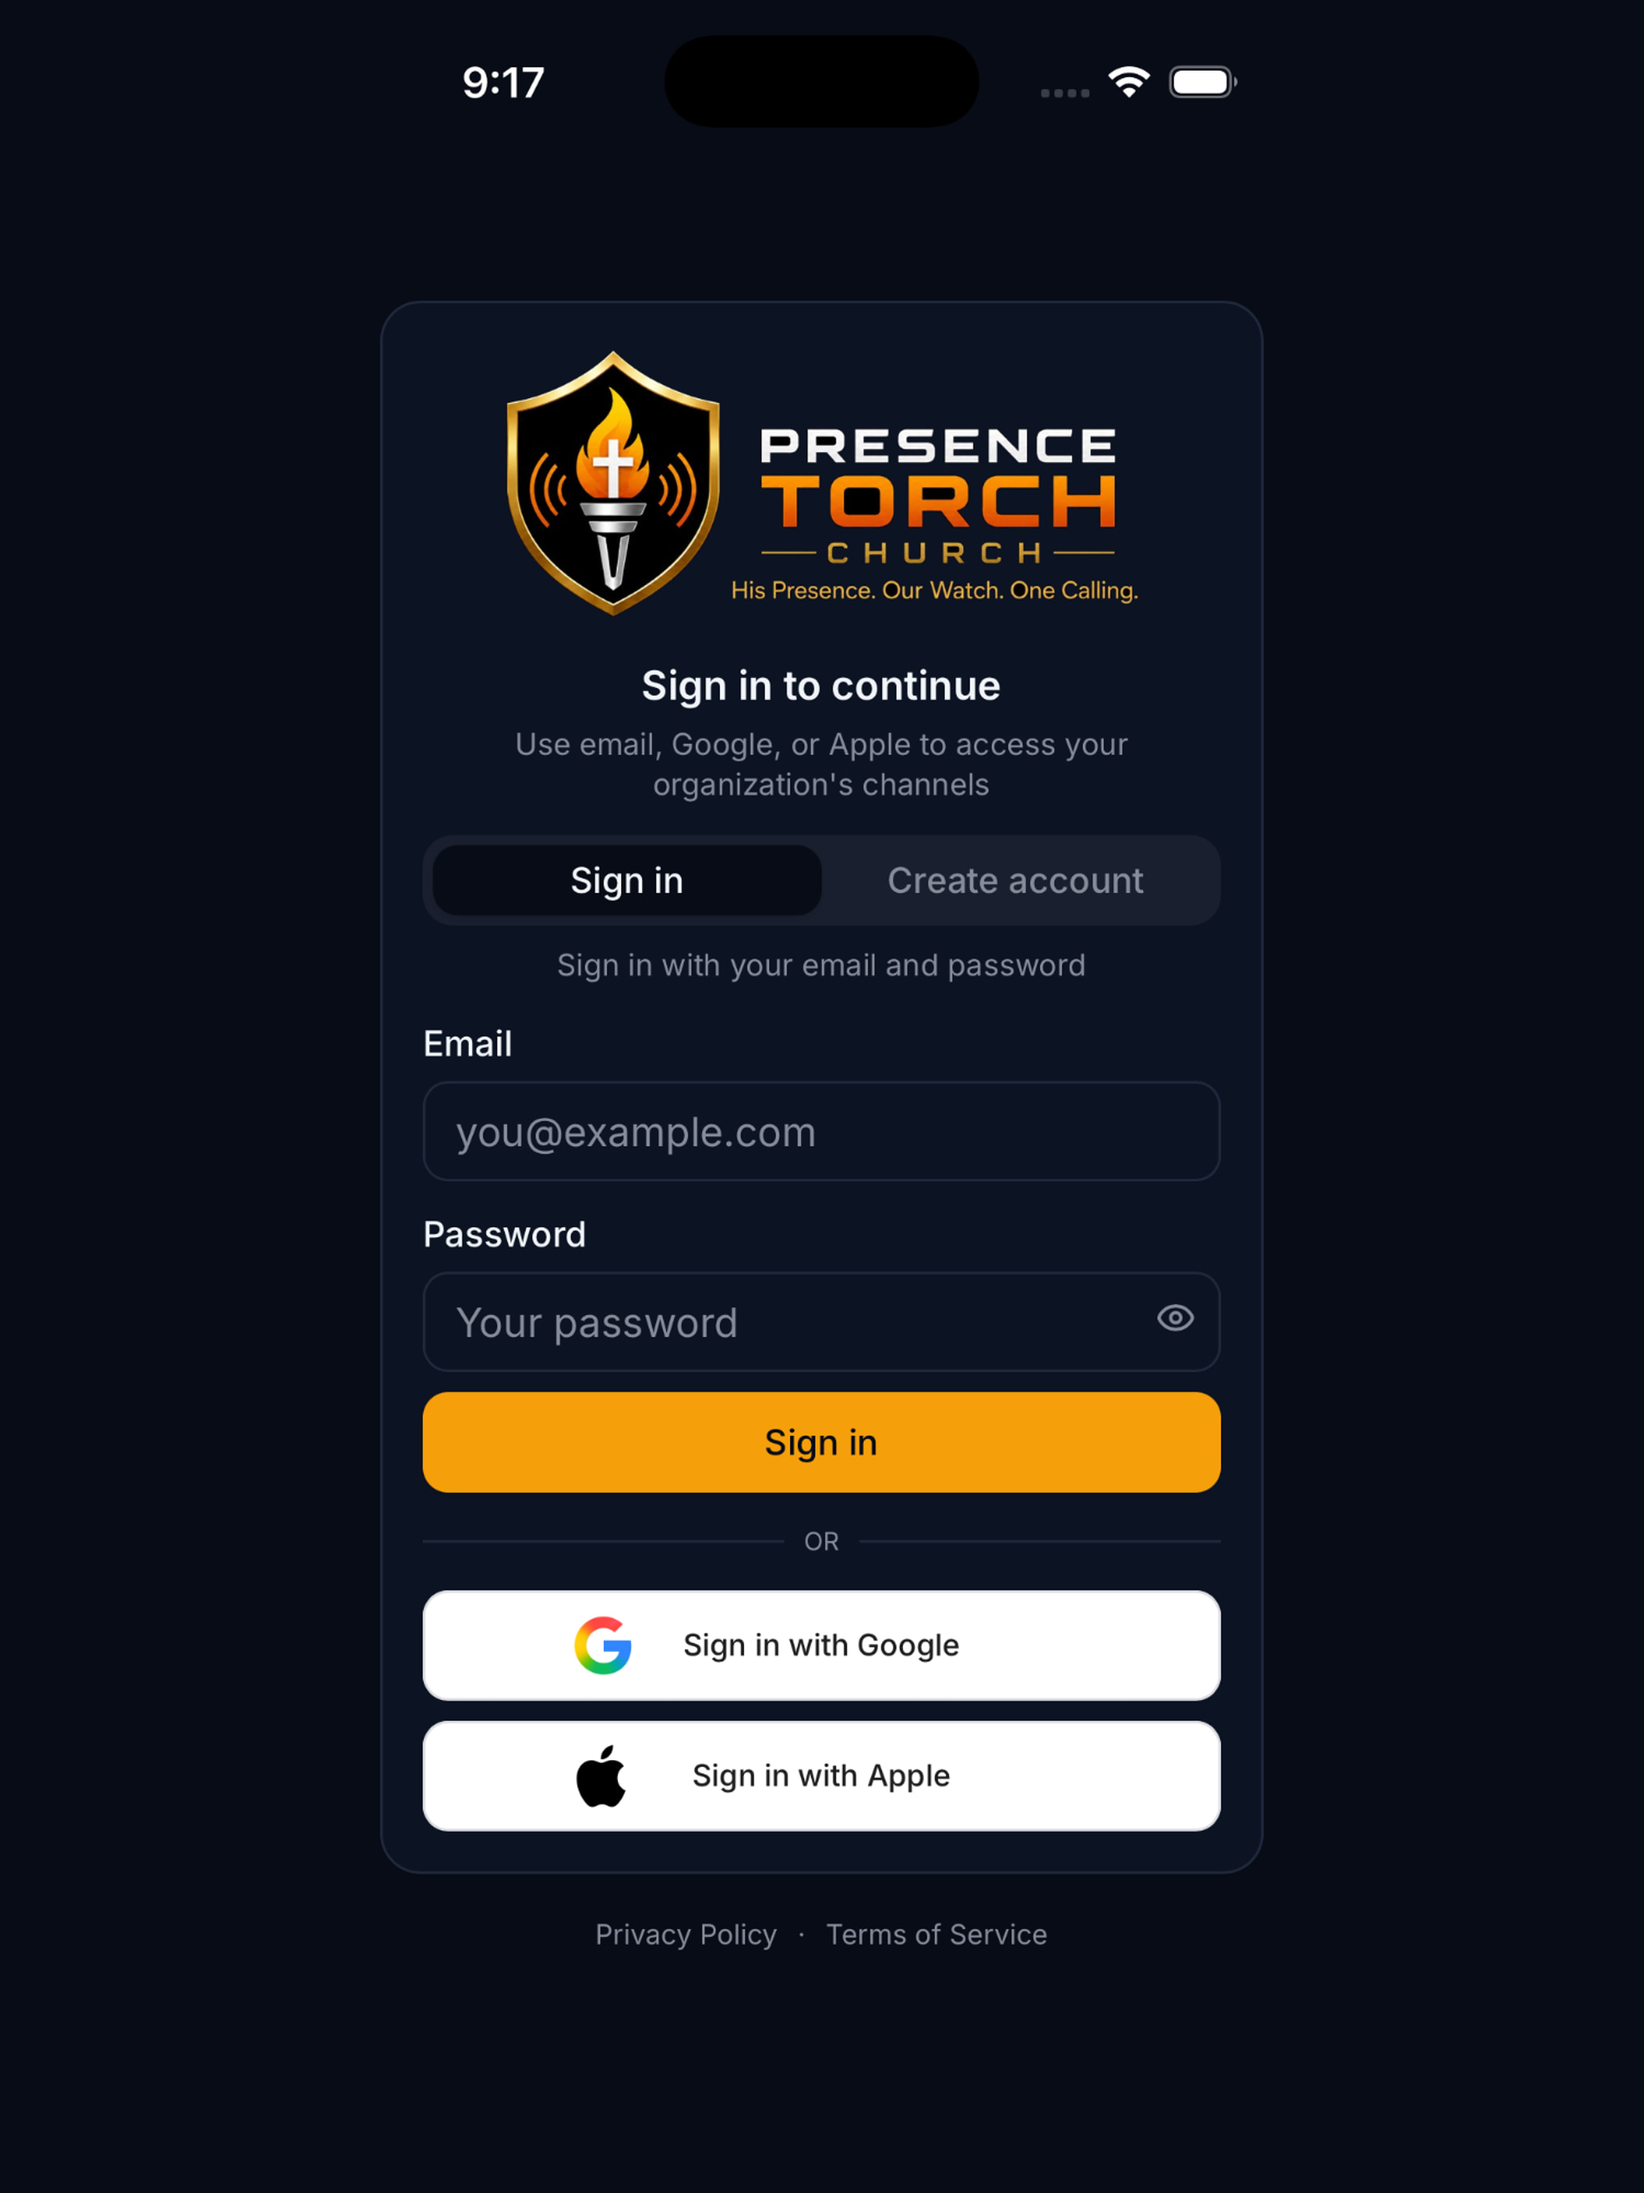
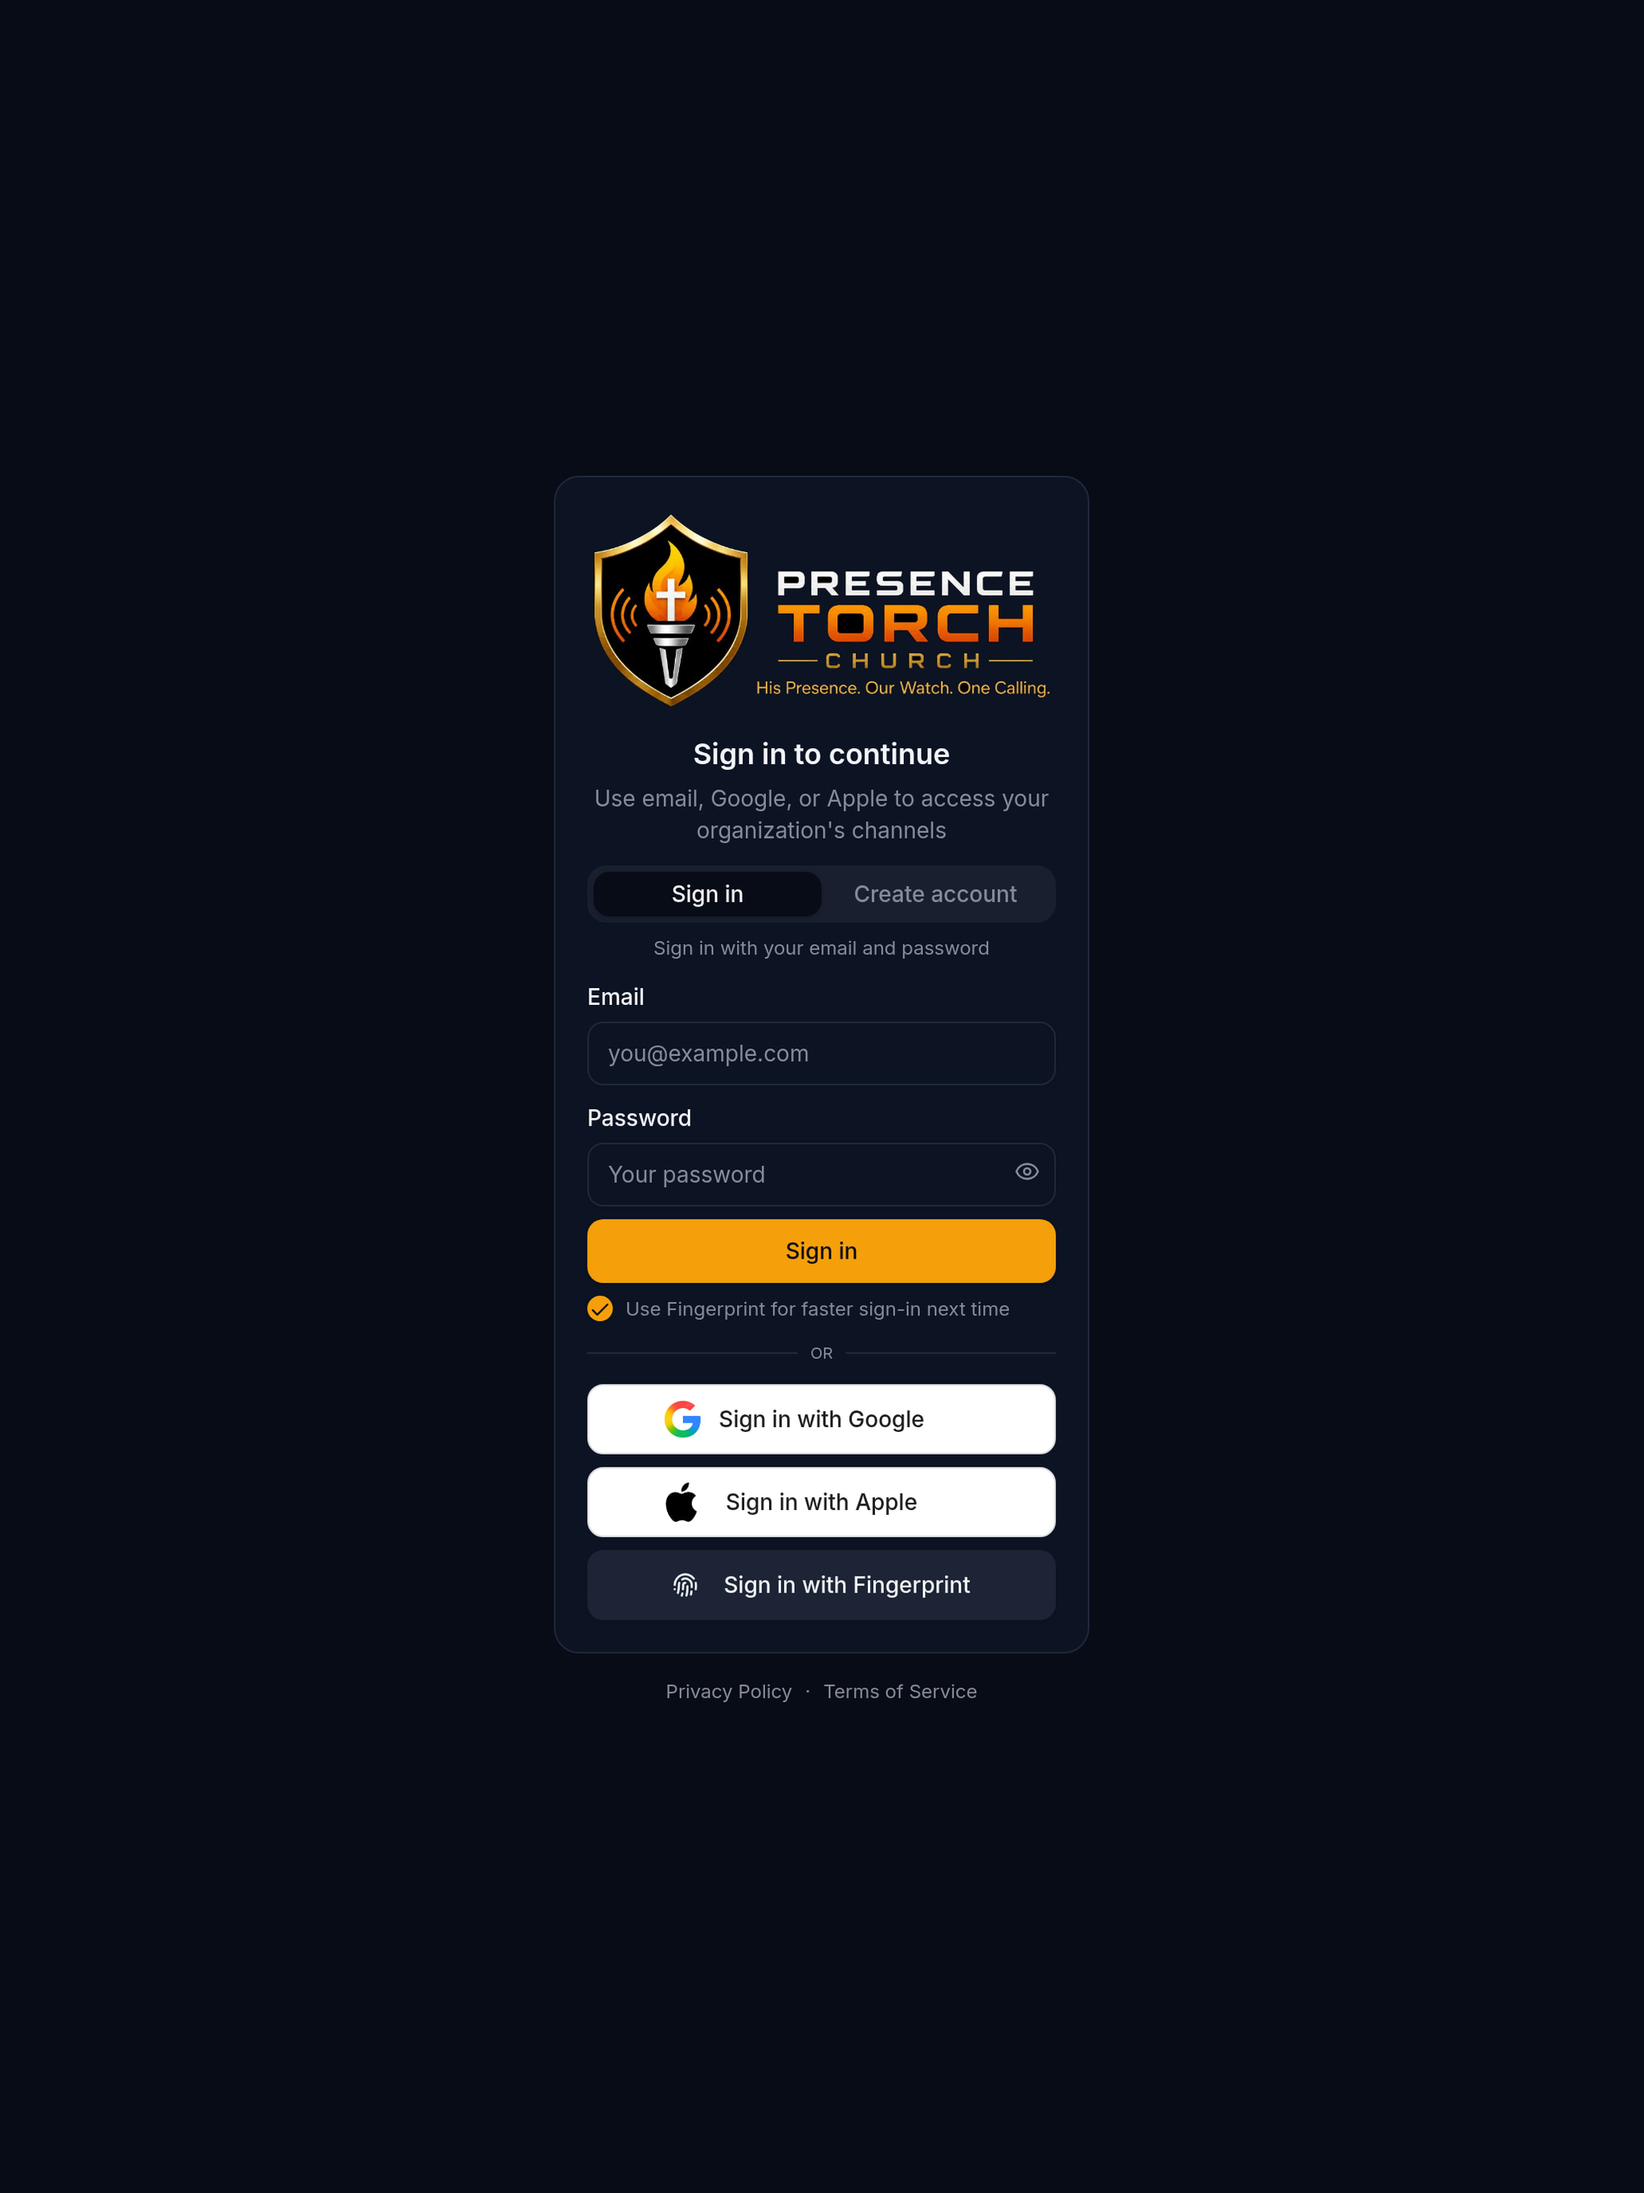
Render iPad screenshots at an iPad viewport
The iPad frames were phone captures padded onto a 3:4 canvas, so an iPhone
status bar and keyboard bar sat in the middle of a wide screen. That reads as
the wrong device to anyone looking at the listing.

Each slot is now fed by a source captured at its own form factor, and a slot
lists the frames it ships. The sign-in screen is the only one that draws
before authentication, so it is the one iPad-native frame available without a
device; the capture script now produces an iPad master for it and the export
routes iPad slots to that master.

The daily code gate and Talk need a signed-in account, so the README covers
capturing them on an iPad simulator and dropping them in.

diff --git a/src/lib/appStoreScreenshotSpec.js b/src/lib/appStoreScreenshotSpec.js
@@ -3,19 +3,26 @@
  * exporter, the validator script, and the tests cannot disagree about it.
  */
 
+/** The frames, in reviewer-facing order. */
+export const FRAME_FILES = ["01-signin.jpg", "02-daily-code.jpg", "03-talk.jpg"];
+
+/**
+ * An iPad slot only ships frames captured at an iPad viewport. Scaling a phone
+ * capture onto a 3:4 canvas leaves an iPhone status bar and keyboard bar
+ * sitting in the middle of a wide screen, which reads as the wrong device.
+ */
+const IPAD_FRAMES = ["01-signin.jpg"];
+
 /** Portrait sizes Apple accepts for the slots this app ships. */
 export const SLOTS = [
-  { dir: "iphone-6.9-inch-1320x2868", label: '6.9" Display', width: 1320, height: 2868 },
-  { dir: "iphone-6.9-inch-1290x2796", label: '6.9" Display (alternate)', width: 1290, height: 2796 },
-  { dir: "iphone-6.5-inch-1284x2778", label: '6.5" Display', width: 1284, height: 2778 },
-  { dir: "iphone-6.5-inch-1242x2688", label: '6.5" Display (alternate)', width: 1242, height: 2688 },
-  { dir: "iphone-5.5-inch-1242x2208", label: '5.5" Display', width: 1242, height: 2208 },
-  { dir: "ipad-13-inch-2064x2752", label: 'iPad 13" Display', width: 2064, height: 2752 },
-  { dir: "ipad-13-inch-2048x2732", label: 'iPad 13" Display (alternate)', width: 2048, height: 2732 },
+  { dir: "iphone-6.9-inch-1320x2868", label: '6.9" Display', width: 1320, height: 2868, formFactor: "phone", frames: FRAME_FILES },
+  { dir: "iphone-6.9-inch-1290x2796", label: '6.9" Display (alternate)', width: 1290, height: 2796, formFactor: "phone", frames: FRAME_FILES },
+  { dir: "iphone-6.5-inch-1284x2778", label: '6.5" Display', width: 1284, height: 2778, formFactor: "phone", frames: FRAME_FILES },
+  { dir: "iphone-6.5-inch-1242x2688", label: '6.5" Display (alternate)', width: 1242, height: 2688, formFactor: "phone", frames: FRAME_FILES },
+  { dir: "iphone-5.5-inch-1242x2208", label: '5.5" Display', width: 1242, height: 2208, formFactor: "phone", frames: FRAME_FILES },
+  { dir: "ipad-13-inch-2064x2752", label: 'iPad 13" Display', width: 2064, height: 2752, formFactor: "ipad", frames: IPAD_FRAMES },
+  { dir: "ipad-13-inch-2048x2732", label: 'iPad 13" Display (alternate)', width: 2048, height: 2732, formFactor: "ipad", frames: IPAD_FRAMES },
 ];
-
-/** The three frames every slot folder holds, in reviewer-facing order. */
-export const FRAME_FILES = ["01-signin.jpg", "02-daily-code.jpg", "03-talk.jpg"];
 
 export const MAX_BYTES = 8 * 1024 * 1024;
 

diff --git a/src/lib/appStoreScreenshots.test.js b/src/lib/appStoreScreenshots.test.js
@@ -5,14 +5,14 @@ import { describe, it } from "node:test";
 import { fileURLToPath } from "node:url";
 import sharp from "sharp";
 
-import { findUploadProblems, FRAME_FILES as FRAMES, SLOTS as REQUIRED } from "./appStoreScreenshotSpec.js";
+import { findUploadProblems, SLOTS as REQUIRED } from "./appStoreScreenshotSpec.js";
 
 const root = join(dirname(fileURLToPath(import.meta.url)), "../..");
 const shotRoot = join(root, "assets", "app-store-screenshots");
 
 describe("App Store Connect screenshots", () => {
   for (const spec of REQUIRED) {
-    for (const frame of FRAMES) {
+    for (const frame of spec.frames) {
       it(`${spec.dir}/${frame} uploads to the ${spec.label} slot`, async () => {
         const file = join(shotRoot, spec.dir, frame);
         const meta = await sharp(file).metadata();
@@ -36,9 +36,15 @@ describe("App Store Connect screenshots", () => {
     assert.ok(names.includes("source-talk.png"));
   });
 
-  it("ships no leftovers from an earlier export format", () => {
+  it("captures the iPad sign-in frame at an iPad viewport, not from a phone", async () => {
+    const meta = await sharp(join(shotRoot, "source-ipad-signin.png")).metadata();
+    assert.ok(meta.width >= 2048, `iPad master is only ${meta.width}px wide`);
+    assert.ok(meta.width / meta.height > 0.7, "an iPad master should be near 3:4, not phone-shaped");
+  });
+
+  it("ships no leftovers from an earlier export or form factor", () => {
     for (const spec of REQUIRED) {
-      assert.deepEqual(readdirSync(join(shotRoot, spec.dir)).sort(), FRAMES);
+      assert.deepEqual(readdirSync(join(shotRoot, spec.dir)).sort(), [...spec.frames].sort());
     }
   });
 });

diff --git a/assets/app-store-screenshots/README.md b/assets/app-store-screenshots/README.md
@@ -1,12 +1,15 @@
 # App Store Connect screenshots
 
-Every folder holds the same three portrait frames at one accepted size, ordered
+Each iPhone folder holds three portrait frames at one accepted size, ordered
 to follow the flow a reviewer walks through:
 
 - `01-signin.jpg` — sign-in screen
 - `02-daily-code.jpg` — verse of the day and daily access code gate
 - `03-talk.jpg` — Talk channel with protection level, voice and text messages,
   and hold-to-talk
+
+The iPad folders hold `01-signin.jpg` only, rendered at an iPad viewport. See
+[iPad frames](#ipad-frames) for why, and for how to add the other two.
 
 All files are baseline JPEG with an embedded sRGB profile, 3 channels, no
 alpha. App Store Connect takes JPG or PNG and rejects transparency, a non-RGB
@@ -74,6 +77,33 @@ The iPad set is required because `TARGETED_DEVICE_FAMILY` is `1,2`. Only
 portrait is exported: iPhone is portrait-locked in `Info.plist`, and the source
 frames are phone captures, so a landscape canvas would be mostly padding.
 
+## iPad frames
+
+An iPad slot is only fed by a capture taken at an iPad viewport. Scaling a
+phone screenshot onto a 3:4 canvas leaves an iPhone status bar and keyboard
+bar stranded in the middle of a wide screen, which reads as the wrong device
+to anyone looking at the listing.
+
+`source-ipad-signin.png` is a real iPad-width render of the sign-in screen,
+which is the one screen that draws before authentication:
+
+```bash
+npm run dev
+npm run capture:app-store-login -- --ipad
+npm run export:app-store-screenshots signin
+```
+
+The daily code gate and Talk both sit behind a signed-in account, so they
+cannot be rendered headlessly. To add them, run the app on an iPad simulator
+in Xcode (iPad Pro 13-inch), sign in, and press Cmd+S on each screen; the
+files land on the Desktop at 2064 × 2752. Drop them in as
+`source-ipad-daily-code.png` and `source-ipad-talk.png`, add their names to
+`sources.ipad` in `scripts/export-app-store-screenshots.mjs`, add the frames
+to `IPAD_FRAMES` in `src/lib/appStoreScreenshotSpec.js`, then re-export.
+
+Apple requires at least one screenshot per device size, so the single iPad
+frame is enough to submit with.
+
 ## Regenerating
 
 `source-signin.png`, `source-daily-code.png`, and `source-talk.png` are device
@@ -88,10 +118,9 @@ npm run export:app-store-screenshots talk      # just one
 Frames whose aspect ratio does not match a target are fit inside it and padded
 with the page background `#080c16` rather than cropped, so no UI is lost.
 
-When no device is available, `npm run capture:app-store-login` renders
-`/login?storePreview=1` in headless Chrome at each size instead. That path
-overwrites `01-signin.jpg` with a browser render, which has no iOS status bar,
-so prefer a device screenshot for the shipped listing.
+`npm run capture:app-store-login -- --phone` overwrites `source-signin.png`
+with a headless browser render. That render has no iOS status bar, so prefer
+the device screenshot for the iPhone listing.
 
 `src/lib/appStoreScreenshotSpec.js` holds the accepted sizes and the rejection
 rules, shared by both generators, the validator, and the tests.
